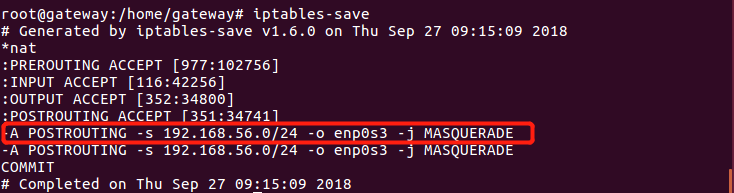
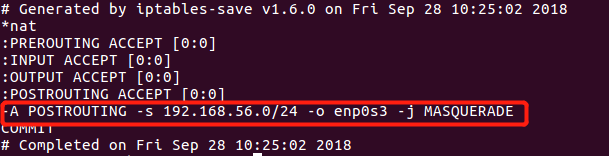
依照反馈进行修改（删除多余的iptables规则、报告中添加引用）

Changed region(s): [[0.0, 0.0, 0.936, 1.0], [0.9672, 0.0, 1.0, 1.0]]

diff --git a/NS-chap0x1/NS-chap0x1.md b/NS-chap0x1/NS-chap0x1.md
@@ -132,3 +132,12 @@
 
    - 换了一个网络环境之后虚拟机无法上网，报错`name or service not known` ，执行`cat /etc/resolv.conf`发现其中缺少和宿主机相同的DNS服务器，手动添加后可以上网
 
+## 参考资料
+
+- [TheMasterOfMagic]: https://github.com/CUCCS/2018-NS-Public-TheMasterOfMagic/blob/cd50cd367ba0db52601295b686c9d854679283fa/chap0x01/%E5%9F%BA%E4%BA%8EVirtualBox%E7%9A%84%E7%BD%91%E7%BB%9C%E6%94%BB%E9%98%B2%E5%9F%BA%E7%A1%80%E7%8E%AF%E5%A2%83%E6%90%AD%E5%BB%BA.md
+
+- [jckling]: https://github.com/CUCCS/2018-NS-Public-jckling/blob/70e9a04e20f01db84d7f673f6d2e34b7876c7676/0x01/%E5%9F%BA%E4%BA%8EVirtualBox%E7%9A%84%E7%BD%91%E7%BB%9C%E6%94%BB%E9%98%B2%E5%9F%BA%E7%A1%80%E7%8E%AF%E5%A2%83%E6%90%AD%E5%BB%BA.md
+
+- [端口转发的配置]: https://askubuntu.com/questions/320121/simple-port-forwarding
+
+  

diff --git a/README.md b/README.md
@@ -1,0 +1,3 @@
+## 大作业选题
+
+- 翻译所有文献内容
